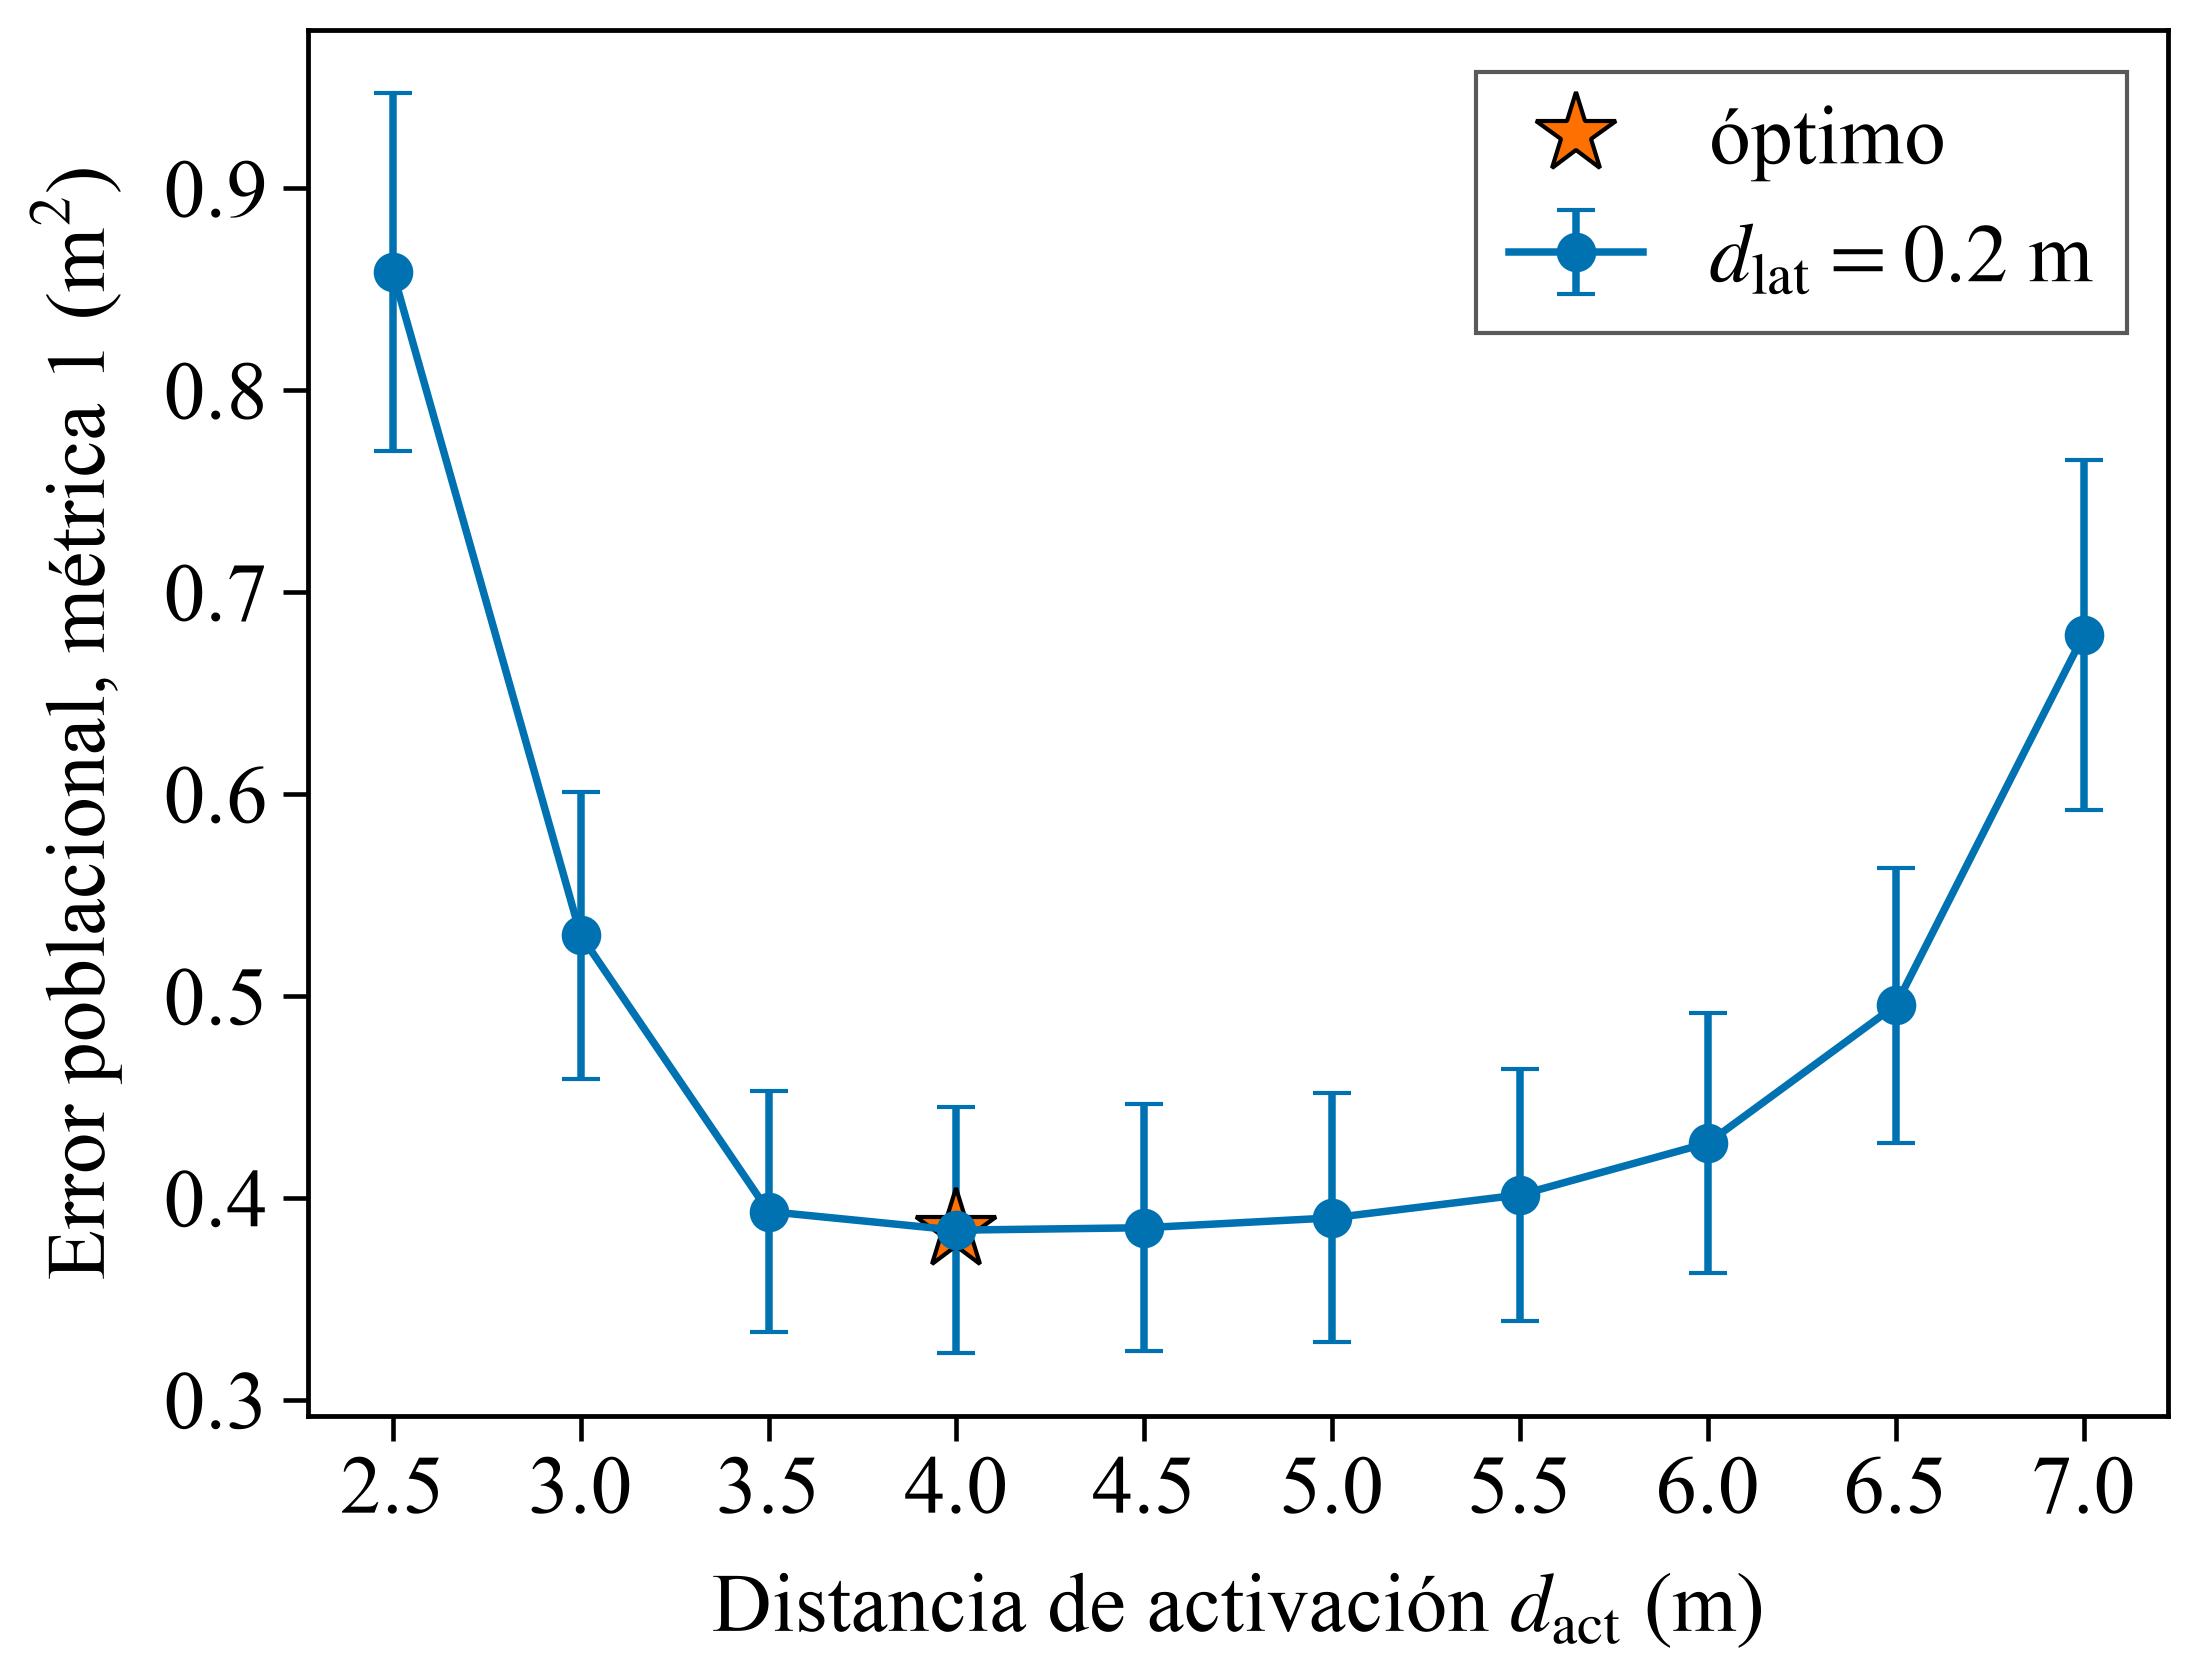
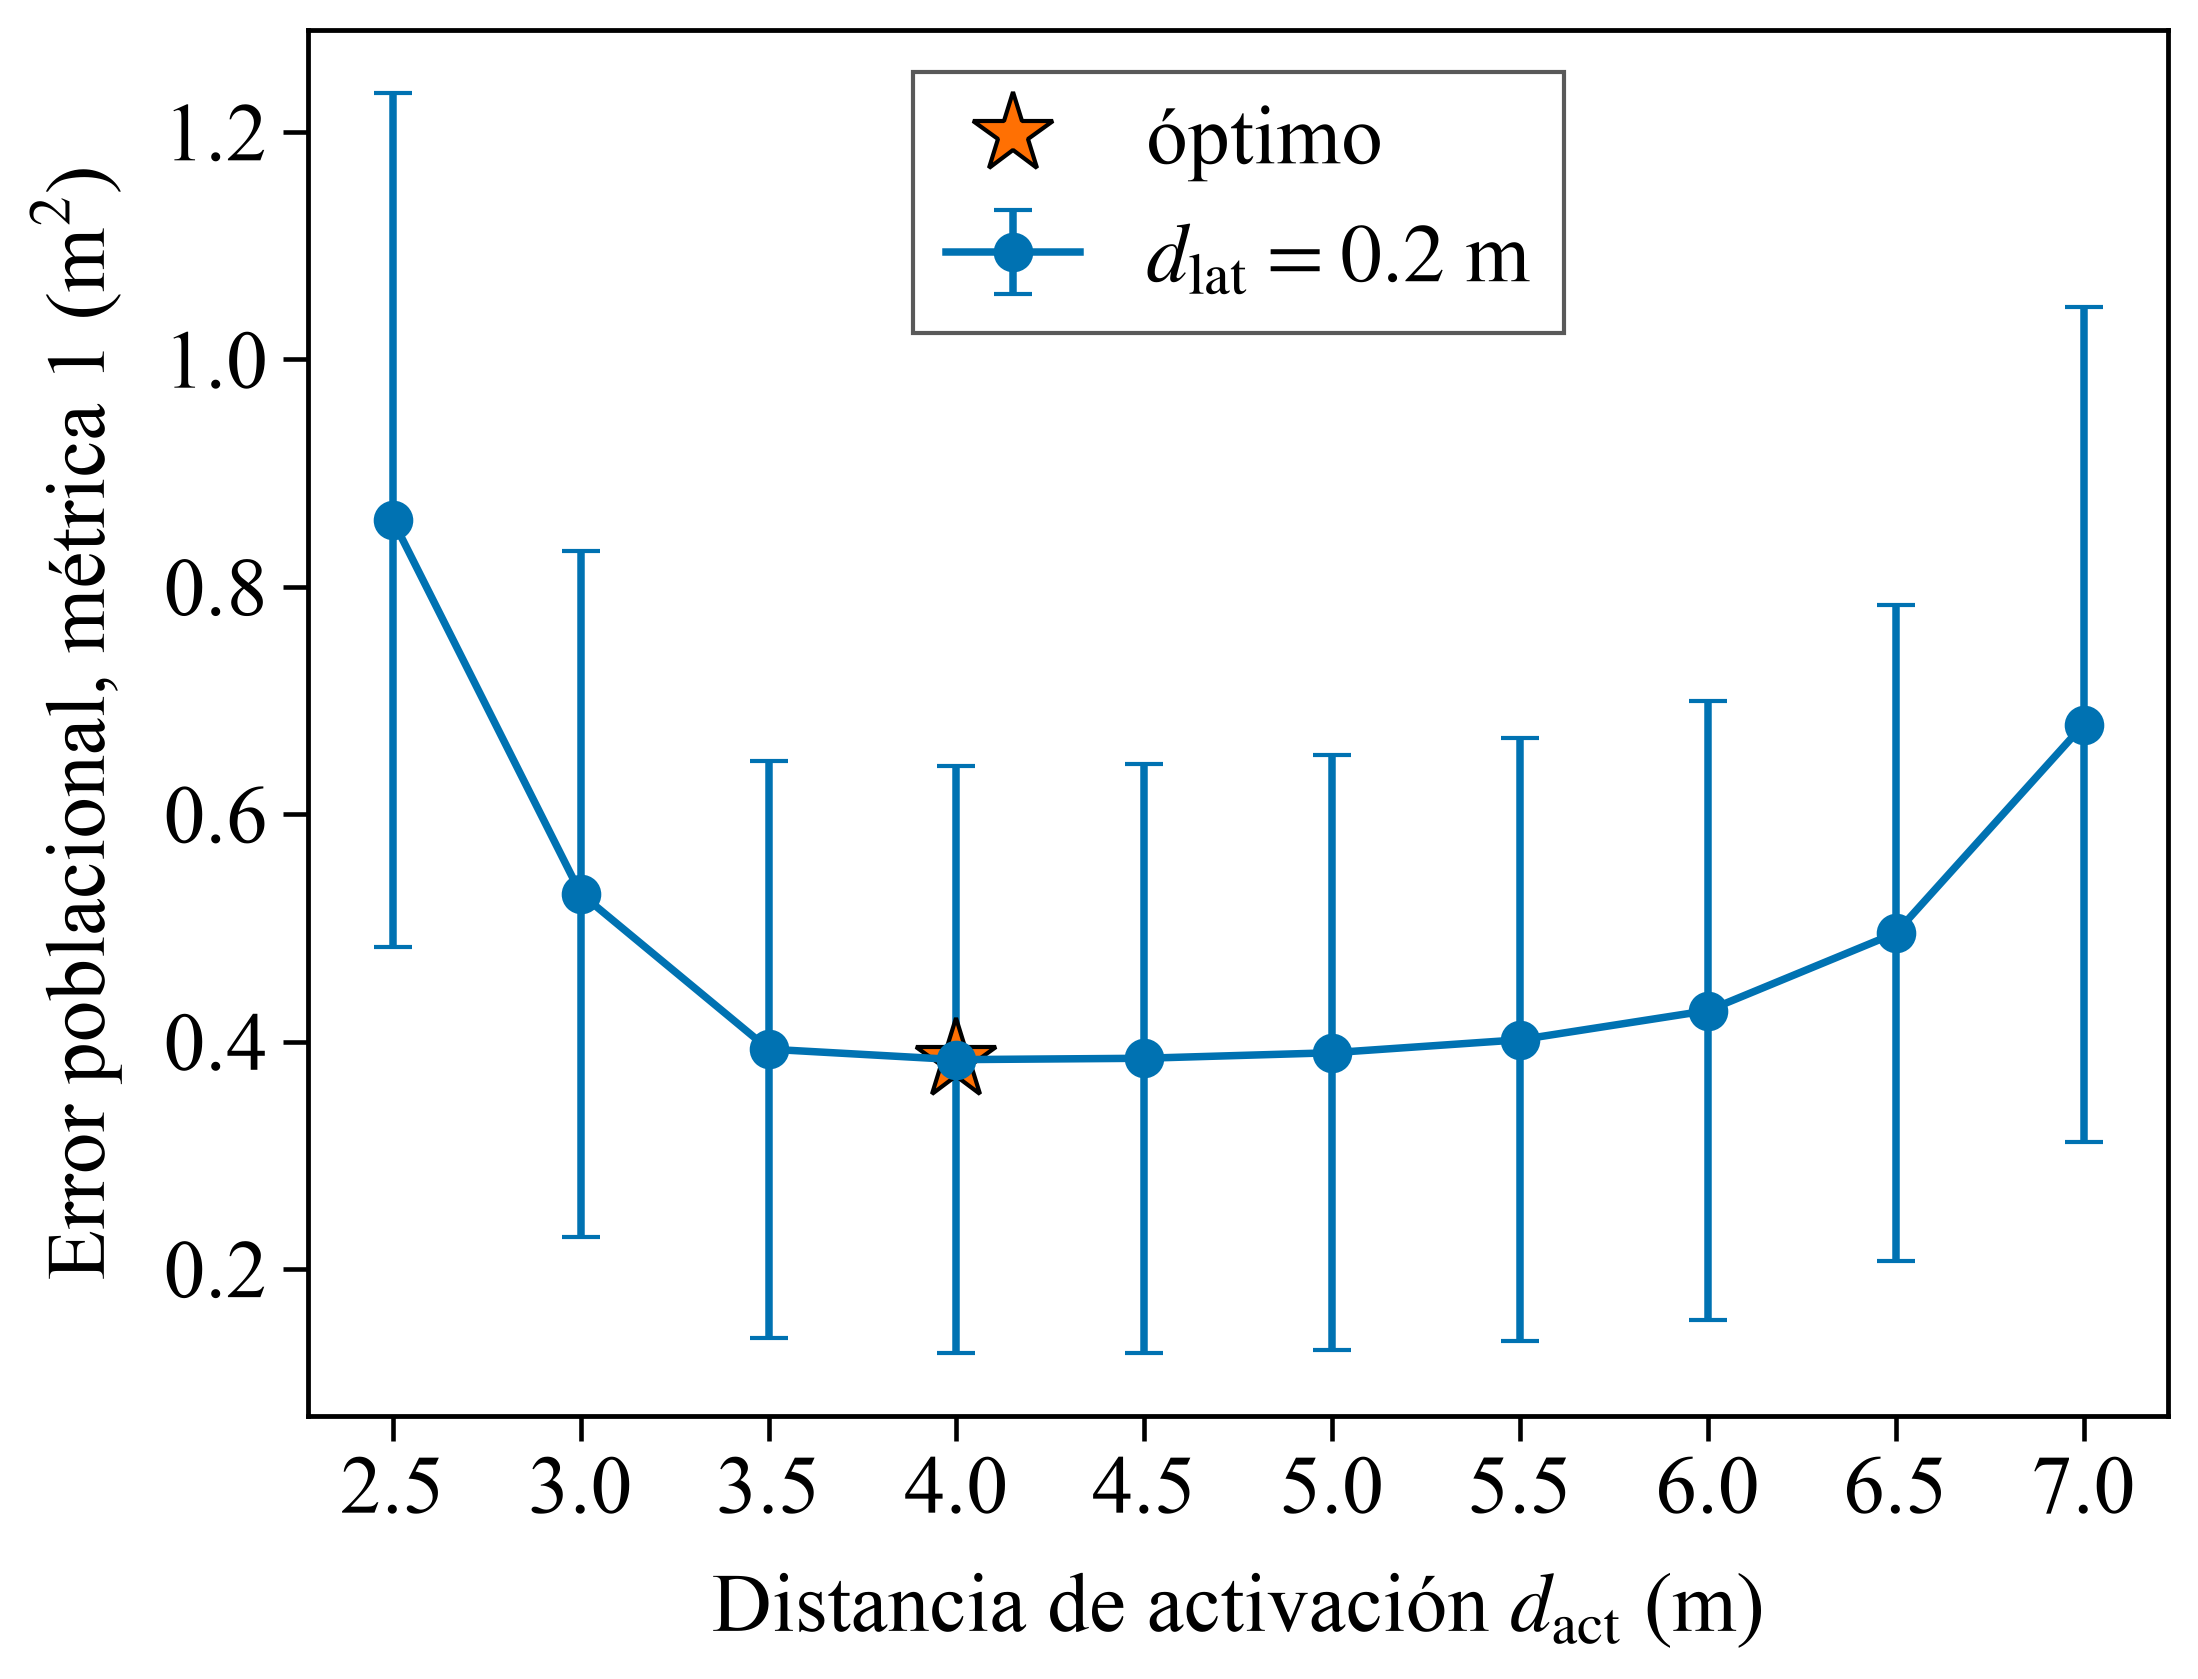
changed heatmap to use logscale

diff --git a/scripts/calibrate.py b/scripts/calibrate.py
@@ -2,7 +2,7 @@
 """
 Calibración de la capa de elusión a partir de la tabla E[m, i, j] (collect_errors.py), por métrica:
 
-  (b) poblacional:  <E>(d_lat, d_act) = promedio sobre eventos, con su error estándar; óptimo = mínimo de la grilla
+  (b) poblacional:  <E>(d_lat, d_act) = promedio sobre eventos, con su desvío estándar muestral; óptimo = mínimo de la grilla
   (c) individual:   óptimo de cada evento y su error con los parámetros poblacionales
   (d) validación cruzada: particiones aleatorias entrenamiento/validación; óptimo sobre entrenamiento, error sobre validación
 
@@ -24,14 +24,20 @@ REPO = Path(__file__).resolve().parents[1]
 GAIN_NOTE = "ganancia = (E_pop - E_ind) / E_pop, promedios sobre eventos"
 
 
+def pm(value: float, error: float, tex: bool = False) -> str:
+    """'valor ± desvío' con el formato de la Teórica 0 (diap. 62): el error con una cifra significativa."""
+    v, e = calib.format_pm(value, error)
+    return f"{v} \\pm {e}" if tex else f"{v} ± {e}"
+
+
 def write_population(path: Path, metric: int, table: calib.ErrorTable, pop: calib.PopulationResult) -> None:
     L = [
         f"# Métrica {metric}: calibración poblacional, <E> = promedio de E_m sobre {len(table.events)} eventos (m^2)",
-        "# sem = desvío estándar (ddof=1) / sqrt(n); el óptimo se busca entre los puntos de grilla que tienen todos los eventos",
-        f"# optimum {pop.optimum[0]:g} {pop.optimum[1]:g} {pop.optimum_mean:.8e} {pop.optimum_sem:.8e}",
-        "# d_lat d_act mean sem n",
+        "# sd = desvío estándar muestral entre eventos (ddof=1), mu ± sigma de la Teórica 0; el óptimo se busca entre los puntos de grilla que tienen todos los eventos",
+        f"# optimum {pop.optimum[0]:g} {pop.optimum[1]:g} {pop.optimum_mean:.8e} {pop.optimum_sd:.8e}",
+        "# d_lat d_act mean sd n",
     ]
-    for g, m, s, n in zip(pop.grid, pop.mean, pop.sem, pop.n):
+    for g, m, s, n in zip(pop.grid, pop.mean, pop.sd, pop.n):
         L.append(f"{g[0]:g} {g[1]:g} {m:.8e} {s:.8e} {int(n)}")
     path.write_text("\n".join(L) + "\n", encoding="utf-8")
 
@@ -99,20 +105,20 @@ def main() -> None:
 
     L = [
         "# Resumen de la calibración (m^2). " + GAIN_NOTE,
-        "# metric M grid d_lat_opt d_act_opt E_pop sem_pop E_ind gain cv_partitions cv_val_mean cv_val_sd cv_train_mean cv_train_sd",
+        "# metric M grid d_lat_opt d_act_opt E_pop sd_pop E_ind gain cv_partitions cv_val_mean cv_val_sd cv_train_mean cv_train_sd",
     ]
     T = ["% generado por scripts/calibrate.py; unidades m^2", "\\begin{tabular}{lcccccc}", "\\hline",
          "Métrica & $(d_{\\mathrm{lat}}, d_{\\mathrm{act}})^*$ & $\\langle E\\rangle$ poblacional & $\\langle E_m\\rangle$ individual & Ganancia & "
          "$\\langle E\\rangle$ validación & $\\langle E\\rangle$ entrenamiento \\\\", "\\hline"]
     for metric, pop, M, J, E_ind, gain, summ in summary_rows:
         L.append(
-            f"{metric} {M} {J} {pop.optimum[0]:g} {pop.optimum[1]:g} {pop.optimum_mean:.6e} {pop.optimum_sem:.6e} {E_ind:.6e} {gain:.4f} "
+            f"{metric} {M} {J} {pop.optimum[0]:g} {pop.optimum[1]:g} {pop.optimum_mean:.6e} {pop.optimum_sd:.6e} {E_ind:.6e} {gain:.4f} "
             f"{summ.partitions} {summ.E_validation_mean:.6e} {summ.E_validation_sd:.6e} {summ.E_train_mean:.6e} {summ.E_train_sd:.6e}"
         )
         T.append(
-            f"$E^{{({metric})}}$ & $({pop.optimum[0]:g},\\ {pop.optimum[1]:g})$ & ${pop.optimum_mean:.3g} \\pm {pop.optimum_sem:.2g}$ & "
-            f"${E_ind:.3g}$ & ${100 * gain:.0f}\\,\\%$ & ${summ.E_validation_mean:.3g} \\pm {summ.E_validation_sd:.2g}$ & "
-            f"${summ.E_train_mean:.3g} \\pm {summ.E_train_sd:.2g}$ \\\\"
+            f"$E^{{({metric})}}$ & $({pop.optimum[0]:g},\\ {pop.optimum[1]:g})$ & ${pm(pop.optimum_mean, pop.optimum_sd, tex=True)}$ & "
+            f"${E_ind:.3g}$ & ${100 * gain:.0f}\\,\\%$ & ${pm(summ.E_validation_mean, summ.E_validation_sd, tex=True)}$ & "
+            f"${pm(summ.E_train_mean, summ.E_train_sd, tex=True)}$ \\\\"
         )
     T += ["\\hline", "\\end{tabular}"]
     (outdir / "summary.txt").write_text("\n".join(L) + "\n", encoding="utf-8")
@@ -121,8 +127,8 @@ def main() -> None:
     for metric, pop, M, J, E_ind, gain, summ in summary_rows:
         print(
             f"Métrica {metric} ({M} eventos, {J} puntos de grilla): óptimo d_lat={pop.optimum[0]:g}, d_act={pop.optimum[1]:g}, "
-            f"<E>={pop.optimum_mean:.4g} ± {pop.optimum_sem:.2g} | individual <E_m>={E_ind:.4g} (ganancia {100 * gain:.1f} %) | "
-            f"validación {summ.E_validation_mean:.4g} ± {summ.E_validation_sd:.2g} ({summ.partitions} particiones)"
+            f"<E>={pm(pop.optimum_mean, pop.optimum_sd)} | individual <E_m>={E_ind:.4g} (ganancia {100 * gain:.1f} %) | "
+            f"validación {pm(summ.E_validation_mean, summ.E_validation_sd)} ({summ.partitions} particiones)"
         )
     print(f"escrito en {outdir}: population_m*.txt, individual_m*.txt, crossval_m*.txt, summary.txt, summary.tex")
 

diff --git a/scripts/lib/calib.py b/scripts/lib/calib.py
@@ -114,6 +114,18 @@ class ErrorTable:
         return sorted({g[1] for g in self.grid})
 
 
+def format_pm(value: float, error: float) -> tuple[str, str]:
+    """Value and error as strings in the format of Teórica 0 (slide 62): the error with one significant figure and the
+    value rounded to that same decimal place, e.g. (45.423457, 0.323428) -> ("45.4", "0.3")."""
+    if not (np.isfinite(value) and np.isfinite(error)) or error <= 0:
+        return f"{value:.3g}", f"{error:.1g}"
+    exponent = int(np.floor(np.log10(error)))
+    error = round(error, -exponent)
+    exponent = int(np.floor(np.log10(error)))  # 0.096 rounds up to 0.1: one decimal less
+    decimals = max(0, -exponent)
+    return f"{round(value, -exponent):.{decimals}f}", f"{error:.{decimals}f}"
+
+
 # --- (b) population calibration -----------------------------------------------------------------
 
 
@@ -121,7 +133,7 @@ class ErrorTable:
 class PopulationResult:
     grid: list[GridPoint]
     mean: np.ndarray  # <E>(j) over the events that have that grid point
-    sem: np.ndarray  # standard error of that mean (std ddof=1 / sqrt(n)); NaN when n < 2
+    sd: np.ndarray  # sample standard deviation between events (ddof=1): the error bar, mu ± sigma of Teórica 0; NaN when n < 2
     n: np.ndarray  # number of events behind each mean
     optimum_index: int
 
@@ -134,28 +146,27 @@ class PopulationResult:
         return float(self.mean[self.optimum_index])
 
     @property
-    def optimum_sem(self) -> float:
-        return float(self.sem[self.optimum_index])
+    def optimum_sd(self) -> float:
+        return float(self.sd[self.optimum_index])
 
 
-def _mean_sem(E: np.ndarray) -> tuple[np.ndarray, np.ndarray, np.ndarray]:
+def _mean_sd(E: np.ndarray) -> tuple[np.ndarray, np.ndarray, np.ndarray]:
     n = np.sum(~np.isnan(E), axis=0)
     with np.errstate(invalid="ignore"):
         mean = np.nanmean(E, axis=0)
         sd = np.nanstd(E, axis=0, ddof=1)
-    sem = np.where(n > 1, sd / np.sqrt(np.maximum(n, 1)), np.nan)
-    return mean, sem, n
+    return mean, np.where(n > 1, sd, np.nan), n
 
 
 def population(table: ErrorTable) -> PopulationResult:
     """Grid search of <E>(p1, p2) = mean over events (eq. 3). The optimum is the grid point with the lowest mean,
     considering only grid points that every event has (an incomplete column cannot be compared fairly)."""
-    mean, sem, n = _mean_sem(table.E)
+    mean, sd, n = _mean_sd(table.E)
     complete = n == len(table.events)
     if not complete.any():
         raise ValueError("no grid point is simulated for every event; complete the sweep first")
     candidate = np.where(complete, mean, np.inf)
-    return PopulationResult(table.grid, mean, sem, n, int(np.argmin(candidate)))
+    return PopulationResult(table.grid, mean, sd, n, int(np.argmin(candidate)))
 
 
 # --- (c) individual calibration -----------------------------------------------------------------

diff --git a/scripts/plot_calibration.py b/scripts/plot_calibration.py
@@ -69,7 +69,7 @@ def save(fig, path: Path) -> None:
 def plot_population(metric: int, indir: Path, outdir: Path) -> None:
     comments, rows = read_table(indir / f"population_m{metric}.txt")
     r_opt, a_opt, _, _ = header_value(comments, "optimum")
-    data = np.array([[float(v) for v in r[:4]] for r in rows])  # d_lat ad mean sem
+    data = np.array([[float(v) for v in r[:4]] for r in rows])  # d_lat ad mean sd
     d_lats, ads = np.unique(data[:, 0]), np.unique(data[:, 1])
     Z = np.full((len(ads), len(d_lats)), np.nan)
     S = np.full_like(Z, np.nan)
@@ -77,10 +77,10 @@ def plot_population(metric: int, indir: Path, outdir: Path) -> None:
         Z[np.searchsorted(ads, a), np.searchsorted(d_lats, r)] = m
         S[np.searchsorted(ads, a), np.searchsorted(d_lats, r)] = s
 
-    # surface; log colour scale when the grid spans more than a decade (a diverging run would flatten everything else)
+    # surface; log colour scale, so the contrast is not spent on the bad corners and the valley around the optimum shows
     fig, ax = plt.subplots(figsize=(8.5, 6.5))
     zmin, zmax = np.nanmin(Z), np.nanmax(Z)
-    norm = LogNorm(vmin=zmin, vmax=zmax) if zmin > 0 and zmax / zmin > 20 else None
+    norm = LogNorm(vmin=zmin, vmax=zmax) if zmin > 0 else None
     mesh = ax.pcolormesh(d_lats, ads, Z, shading="nearest", cmap="viridis", norm=norm)
     cbar = fig.colorbar(mesh, ax=ax, pad=0.02)
     if norm is None:
@@ -164,7 +164,7 @@ def plot_individual(metric: int, indir: Path, outdir: Path) -> None:
 
 def plot_crossval(metric: int, indir: Path, outdir: Path) -> None:
     pcom, _ = read_table(indir / f"population_m{metric}.txt")
-    _, _, E_pop, sem_pop = header_value(pcom, "optimum")
+    _, _, E_pop, _ = header_value(pcom, "optimum")
     ccom, rows = read_table(indir / f"crossval_m{metric}.txt")
     val_mean, val_sd = header_value(ccom, "validation")
     k = np.array([int(r[0]) for r in rows])

diff --git a/docs/presentation/secciones/resultados.tex b/docs/presentation/secciones/resultados.tex
@@ -72,7 +72,7 @@
       \begin{resultado}[Óptimo]
         \item $d_{\mathrm{lat}} = 0.20\uni{m}$
         \item $d_{\mathrm{act}} = 4\uni{m}$
-        \item $\langle E^{(1)}\rangle = 0.384 \pm 0.061\uni{m^2}$
+        \item $\langle E^{(1)}\rangle = 0.4 \pm 0.3\uni{m^2}$
       \end{resultado}
     \end{column}
   \end{cols}
@@ -102,7 +102,7 @@
       \begin{resultado}[Óptimo]
         \item $d_{\mathrm{lat}} = 0.25\uni{m}$
         \item $d_{\mathrm{act}} = 5\uni{m}$
-        \item $\langle E^{(2)}\rangle = (2.05 \pm 0.34)\ten{-2}\uni{m^2}$
+        \item $\langle E^{(2)}\rangle = (2 \pm 1)\ten{-2}\uni{m^2}$
       \end{resultado}
     \end{column}
   \end{cols}
@@ -130,8 +130,8 @@
     \hline
     Métrica & $d_{\mathrm{lat}}$ (m) & $d_{\mathrm{act}}$ (m) & $\langle E\rangle$ (m$^2$) \\
     \hline
-    1: iguales tiempos & $0.20$ & $4$ & $0.384 \pm 0.061$ \\
-    2: punto más cercano & $0.25$ & $5$ & $(2.05 \pm 0.34)\ten{-2}$ \\
+    1: iguales tiempos & $0.20$ & $4$ & $0.4 \pm 0.3$ \\
+    2: punto más cercano & $0.25$ & $5$ & $(2 \pm 1)\ten{-2}$ \\
     \hline
   \end{tabular}
 

diff --git a/docs/presentation/secciones/simulaciones.tex b/docs/presentation/secciones/simulaciones.tex
@@ -62,9 +62,9 @@
     \langle E\rangle(d_{\mathrm{lat}},\,d_{\mathrm{act}}) = \frac{1}{M}\sum_{m=1}^{M} E_m(d_{\mathrm{lat}},\,d_{\mathrm{act}})
   \]
   \vspace{2pt}
-  Error estándar de $\langle E\rangle$:
+  Barra de error: desvío estándar muestral entre eventos, \ $\langle E\rangle \pm \sigma_E$
   \[
-    \sigma_{\langle E\rangle} = \frac{1}{\sqrt{M}}\sqrt{\frac{1}{M-1}\sum_{m=1}^{M}\big(E_m - \langle E\rangle\big)^2}
+    \sigma_E = \sqrt{\frac{1}{M-1}\sum_{m=1}^{M}\big(E_m - \langle E\rangle\big)^2}
   \]
 \end{frame}
 
